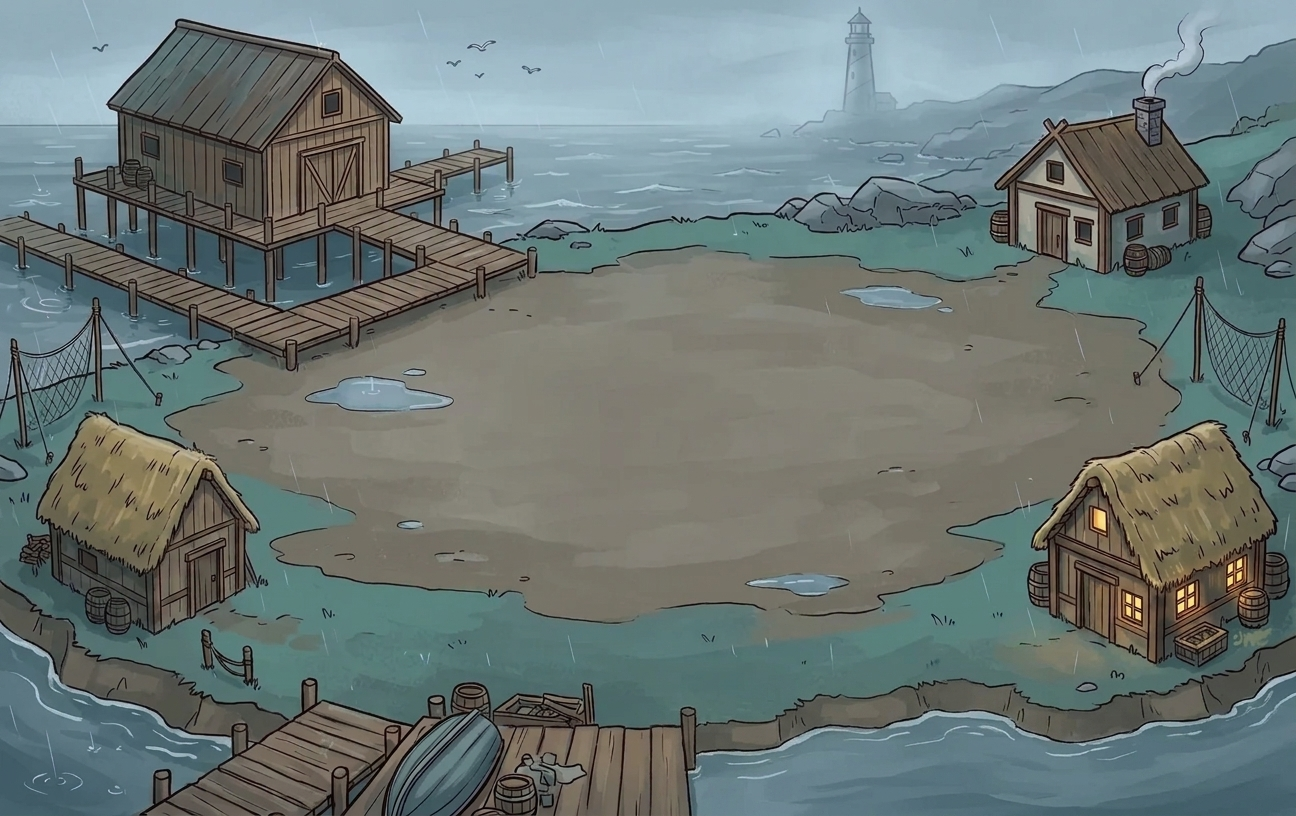
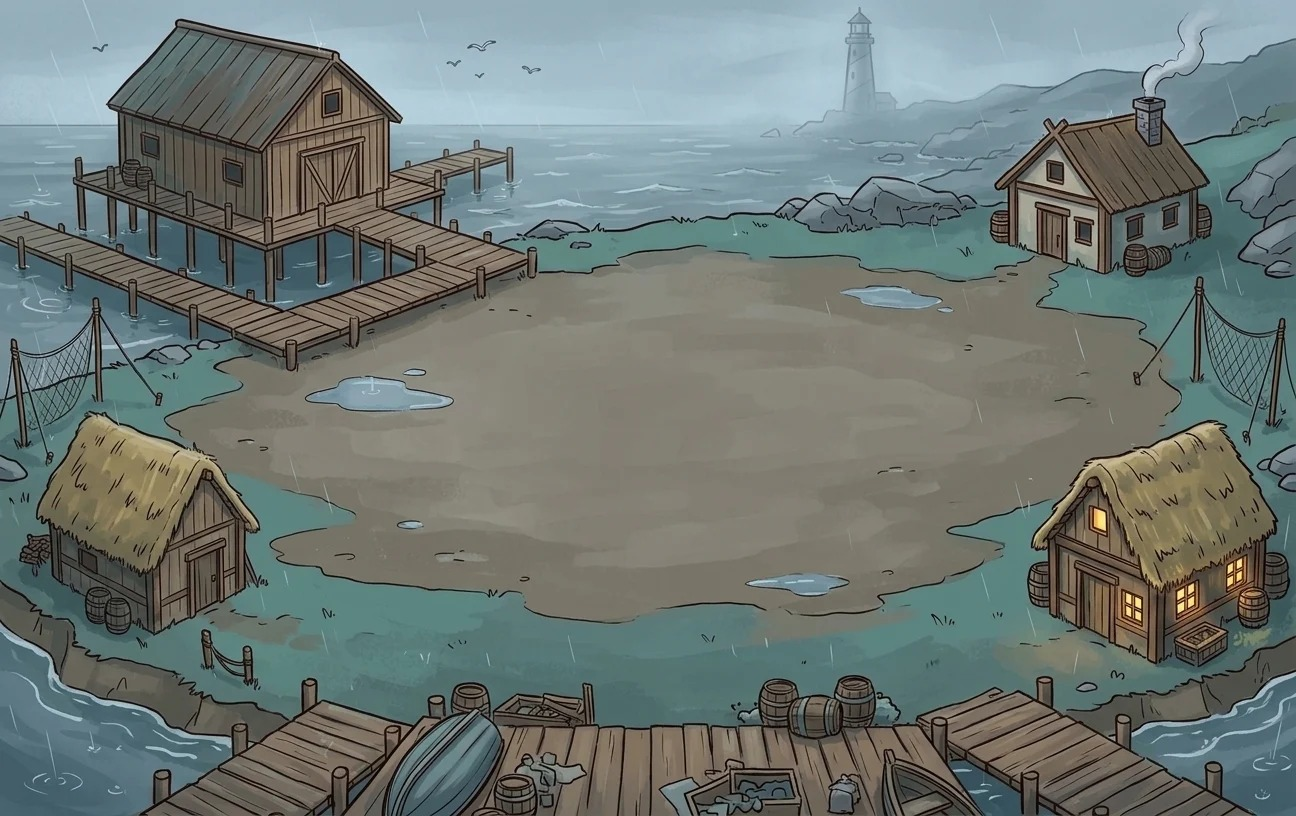
3.38.1: живой фон Рыбацкой деревни — пруд ниже, без забора, окна, дым, рыбаки из домов
Фон из Gemini от пользователя (assets/backgrounds/fishing.jpg).

Claude-Session: https://claude.ai/code/session_0174tYV1TtJbt2bc9kHkJwmK

Changed region(s): [[0.4938, 0.8272, 1.0, 1.0], [0.9568, 0.7047, 0.9877, 0.7353]]

diff --git a/farmgame/field_ui.py b/farmgame/field_ui.py
@@ -27,7 +27,7 @@ class FieldUI:
 
     def hit_tile(self, pos):
         dx = (pos[0] - OX) / (TW / 2)
-        dy = (pos[1] + 18 - OY) / (TH / 2)
+        dy = (pos[1] + 18 - grid_oy()) / (TH / 2)
         fi, fj = (dx + dy) / 2, (dy - dx) / 2
         i, j = math.floor(fi + 0.5), math.floor(fj + 0.5)
         if (i, j) in SLOT:
@@ -337,6 +337,80 @@ class FieldUI:
         total = max(f.rain_left, _rain_time(f.up("rain_len")))
         return total - f.rain_left, f.rain_left
 
+    # ---------- 3.38.1: живой фон (окна, дым) и рыбаки из домов ----------
+    RUSH_WALK = 2.6                   # сколько секунд рыбак идёт от дома до пруда
+
+    def scene(self):
+        """Точки живого фона фермы (THEME["scene"]) — только если лежит та самая картинка фона."""
+        sc = THEME.get("scene")
+        if not sc or sprite(sc["bg"]) is None:
+            return None
+        return sc
+
+    def draw_scene_life(self):
+        sc = self.scene()
+        if sc is None:
+            return
+        s, t = self.screen, self.t_real
+        for n, (x, y, size) in enumerate(sc.get("windows", ())):   # огонь в очаге: свет дрожит у каждого окна по-своему
+            fl = 0.55 + 0.25 * math.sin(t * 3.1 + n * 1.7) + 0.2 * math.sin(t * 7.9 + n * 2.3) * math.sin(t * 1.3 + n)
+            blit_light(s, x, y, size * (2.2 + 0.3 * fl), (255, 190, 90), 70 + 110 * fl)
+            blit_light(s, x, y, size * 0.9, (255, 225, 150), 90 + 120 * fl)
+        if self.view == "field" and not self.modal:
+            last = getattr(self, "smoke_last", t)
+            if t - last > 2.0:                       # вернулись на поле — не выпускаем весь накопленный дым разом
+                last = t - 0.45
+            self.smoke_last = last
+            while t - self.smoke_last > 0.45:
+                self.smoke_last += 0.45
+                for x, y in sc.get("smoke", ()):
+                    self.fx.dust(x, y, n=1, color=(214, 218, 224), size=(6, 10), spread=2, up=24, life=(2.6, 3.6),
+                                 alpha=120, drift=9)
+
+    def rush_walk(self, k, el, left, door, spot):
+        """Где рыбак k на пути дом -> пруд -> дом: (x, y, идёт ли, смотрит вправо) или None (дома)."""
+        delay = 0.2 + 0.22 * DRAW_ORDER.index(k)
+        come = min(1.0, max(0.0, (el - delay) / self.RUSH_WALK))
+        back = min(1.0, max(0.0, (self.RUSH_WALK + 0.2 - left) / self.RUSH_WALK))
+        if come <= 0 or back >= 1:
+            return None
+        if back > 0:
+            u, a, b = anim.ease_in_out(back), spot, door
+        else:
+            u, a, b = anim.ease_out_cubic(come), door, spot
+        x, y = a[0] + (b[0] - a[0]) * u, a[1] + (b[1] - a[1]) * u
+        walking = 0 < u < 1
+        return x, y, walking, b[0] > a[0]
+
+    def rush_spot(self, k):
+        cx, cy = crop_center(k)
+        right = k % 2 == 0
+        return (cx + (64 if right else -64), cy + 14), right
+
+    def rush_door(self, k, sc):
+        spot, _r = self.rush_spot(k)
+        return min(sc["doors"], key=lambda d: (d[0] - spot[0]) ** 2 + (d[1] - spot[1]) ** 2 + 400 * (k % 3))
+
+    def draw_rush_walkers(self):
+        """Рыбаки, которые сейчас идут (на месте их рисует draw_rush_worker): поверх прудов, чтобы не прятались."""
+        sc = self.scene()
+        clock = self.rush_clock()
+        if sc is None or clock is None or not sc.get("doors"):
+            return
+        from .art_fishing import draw_fisher
+        el, left = clock
+        f = self.farm
+        for k in DRAW_ORDER:
+            if f.levels[k] == 0 or f.farmers[k]:
+                continue
+            spot, right = self.rush_spot(k)
+            w = self.rush_walk(k, el, left, self.rush_door(k, sc), spot)
+            if w is None or not w[2]:
+                continue
+            x, y, _walk, to_right = w
+            hop = abs(math.sin((self.t_real + k) * 9)) * 3
+            draw_fisher(self.screen, x, y - hop, 1.2, self.t_real + k * 0.7, flip=not to_right, n=k)
+
     def draw_rush_worker(self, k):
         """Гном из леса на грядке без своего гнома: выскакивает из сугроба, машет тяпкой, в конце исчезает."""
         clock = self.rush_clock()
@@ -353,6 +427,14 @@ class FieldUI:
         right = k % 2 == 0
         x, y = cx + (64 if right else -64), cy + 14
         fisher = self.farm_info().get("helpers") == "fishermen"     # 3.36: на фестивале — рыбаки с удочками
+        sc = self.scene() if fisher else None
+        if sc is not None and sc.get("doors"):                     # 3.38.1: пришёл из дома — без брызг
+            w = self.rush_walk(k, el, left, self.rush_door(k, sc), ((x, y)))
+            if w is None or w[2]:
+                return                                              # дома или в пути (в пути — draw_rush_walkers)
+            from .art_fishing import draw_fisher
+            draw_fisher(self.screen, x, y, 1.25, self.t_real + k * 0.7, flip=right, n=k)
+            return
         if k not in self.rush_popped:                 # выскочил — облачко снега (у рыбака — брызги)
             self.rush_popped.add(k)
             self.fx.dust(x, y - 4, n=6, color=(200, 225, 240) if fisher else (245, 250, 255), size=(5, 9), spread=12,
@@ -370,6 +452,23 @@ class FieldUI:
             self.rush_popped.clear()
             return
         el, left = clock
+        sc = self.scene() if self.farm_info().get("helpers") == "fishermen" else None
+        if sc is not None and sc.get("dance") and sc.get("doors"):   # 3.38.1: плясуны выходят из домов
+            from .art_fishing import draw_fisher
+            for n, spot in enumerate(sc["dance"]):
+                door = min(sc["doors"], key=lambda d: (d[0] - spot[0]) ** 2 + (d[1] - spot[1]) ** 2)
+                come = anim.ease_out_cubic(min(1.0, max(0.0, (el - 0.4 - 0.5 * n) / self.RUSH_WALK)))
+                back = min(1.0, max(0.0, (self.RUSH_WALK + 0.2 - left) / self.RUSH_WALK))
+                if come <= 0 or back >= 1:
+                    continue
+                a, b, u = (spot, door, back) if back > 0 else (door, spot, come)
+                x, y = a[0] + (b[0] - a[0]) * u, a[1] + (b[1] - a[1]) * u
+                t = self.t_real + n * 1.3
+                if 0 < u < 1:
+                    draw_fisher(self.screen, x, y - abs(math.sin(t * 9)) * 3, 1.5, t, flip=b[0] < a[0], n=n)
+                else:
+                    draw_fisher(self.screen, x, y, 1.6, t, flip=n == 1, cheer=True, n=n)
+            return
         for n, (sx, sy) in enumerate(SHAMAN_SPOTS):
             come = anim.ease_out_cubic(min(1.0, max(0.0, (el - 0.3 * n) / self.RUSH_IN)))
             go = 1.0 - anim.ease_out_cubic(min(1.0, max(0.0, left / self.RUSH_OUT)))      # 0 → 1 в последние секунды

diff --git a/farmgame/config.py b/farmgame/config.py
@@ -6,7 +6,7 @@ import sys
 
 W, H = 1000, 640
 FPS = 60
-GAME_VERSION = "3.38"   # версия игры: видна в «Настройках» и в заголовке окна
+GAME_VERSION = "3.38.1"   # версия игры: видна в «Настройках» и в заголовке окна
 SAVE_VERSION = 2
 DEV = "--dev" in sys.argv     # режим разработчика: python farm_idle.py --dev
 BASE_DIR = os.path.dirname(os.path.dirname(os.path.abspath(__file__)))   # папка, где лежит farm_idle.py
@@ -540,7 +540,15 @@ THEME_FISHING = dict(ground=(122, 148, 140), ground2=(134, 160, 152), path=(150,
                      path2=(160, 138, 110), tree=(66, 98, 94), tree_light=(92, 124, 120), bush=(78, 108, 104),
                      bush_light=(104, 134, 130), tuft=(92, 120, 112), stone=(150, 158, 166),
                      soil=(86, 128, 156), soil_dark=(64, 100, 130), soil_side=(110, 86, 64), snow=False,
-                     pond=True, critter="crab", pest="gull")
+                     pond=True, critter="crab", pest="gull", fence=False, field_dy=36,
+                     scene=dict(   # 3.38.1: живой фон backgrounds/fishing (точки — под картинку 26.11, логические 1000x640)
+                         bg="backgrounds/fishing",
+                         windows=[(847, 408, 22), (873, 475, 26), (915, 468, 26), (954, 448, 26),   # хижина справа
+                                  (814, 134, 18), (836, 180, 20), (876, 178, 20), (904, 169, 18),   # дом наверху
+                                  (68, 440, 22)],                                                   # хижина слева
+                         smoke=[(886, 76)],                       # труба дома наверху
+                         doors=[(846, 502), (811, 206), (158, 488)],   # откуда выходят рыбаки на фестиваль
+                         dance=[(770, 470), (230, 470)]))         # где пляшут рыбаки с уловом
 CURRENCIES = {
     "leaf": dict(icon="leaf", title="Листья", gen="листьев", one="лист", tree="ДЕРЕВО ЛИСТЬЕВ"),
     "seal": dict(icon="seal", title="Печати", gen="печатей", one="печать", tree="ПРИВИЛЕГИИ КОРОЛЯ"),

diff --git a/farmgame/art_field.py b/farmgame/art_field.py
@@ -101,7 +101,9 @@ def build_field_background():
     bg.blit(barn, (60, 18))
     for x, y, r in ((900, 250, 26), (210, 430, 30), (950, 480, 24), (330, 520, 22), (640, 525, 22)):
         draw_bush(bg, x, y, r)
-    draw_fence(bg, (OX, OY - TH / 2), (OX + TW + TW / 2, OY + TH), (8, -14))   # задний забор
+    if THEME.get("fence", True):
+        oy = grid_oy()
+        draw_fence(bg, (OX, oy - TH / 2), (OX + TW + TW / 2, oy + TH), (8, -14))   # задний забор
     return bg
 
 
@@ -111,9 +113,10 @@ _fence_layers = {}
 
 def front_fence_segments():
     """Два передних края поля, вдоль которых стоит забор: [(начало, конец)], x начала < x конца."""
-    left = (OX - TW - TW / 2, OY + TH)
-    bottom = (OX, OY + 2 * TH + TH / 2)
-    right = (OX + TW + TW / 2, OY + TH)
+    oy = grid_oy()
+    left = (OX - TW - TW / 2, oy + TH)
+    bottom = (OX, oy + 2 * TH + TH / 2)
+    right = (OX + TW + TW / 2, oy + TH)
     return [((left[0] - 6, left[1] + 16), (bottom[0] - 30 - 6, bottom[1] - 15 + 16)),
             ((bottom[0] + 30 + 6, bottom[1] - 15 + 16), (right[0] + 6, right[1] + 16))]
 
@@ -230,6 +233,8 @@ def _fence_front_as_strip(name):
 
 
 def draw_front_fence_layer(s):
+    if not THEME.get("fence", True):          # 3.38.1: в Рыбацкой деревне забора нет — у прудов свои сетки
+        return
     strips = []
     for name in farm_names("props", "fence_front"):
         wide = _fence_front_as_strip(name)

diff --git a/farmgame/app.py b/farmgame/app.py
@@ -652,6 +652,7 @@ class App(TavernUI, BoardUI, SongsUI, TavernLifeUI, FiresideUI, MoveUI, TavernHu
             working = f.m_workers[0] > 0 and f.hopper > 0
             draw_mill_blades(s, MILL_HUB[0], MILL_HUB[1], self.t * (1.6 if working else 0.35))
         self.zone((120, 30, 250, 195), self.toggle_barn)   # клик по амбару / мельнице
+        self.draw_scene_life()                # 3.38.1: окна мерцают, из трубы дым (если у фермы живой фон)
         self.draw_sun()
         self.draw_cloud()
         for k in DRAW_ORDER:
@@ -660,6 +661,7 @@ class App(TavernUI, BoardUI, SongsUI, TavernLifeUI, FiresideUI, MoveUI, TavernHu
             self.draw_plants(k)
             self.draw_ice(k)
             self.draw_rush_worker(k)          # 3.26: гном из «пришествия» на грядке
+        self.draw_rush_walkers()              # 3.38.1: рыбаки идут из домов к прудам и обратно
         self.draw_front_fence()
         self.draw_shamans()                   # 3.26: шаманы пляшут на лужайке справа
         self.draw_truck_layer()

diff --git a/tests/test_fishing.py b/tests/test_fishing.py
@@ -58,3 +58,23 @@ class FishingVillage(unittest.TestCase):
 
 if __name__ == "__main__":
     unittest.main()
+
+
+class FishingScene(unittest.TestCase):
+    """3.38.1: живой фон деревни — поле ниже, без забора, точки окон/дыма/дверей в пределах экрана."""
+
+    def test_scene_points_on_screen(self):
+        th = cfg.THEME_FISHING
+        self.assertFalse(th["fence"])
+        self.assertGreater(th["field_dy"], 0)
+        sc = th["scene"]
+        for key in ("windows", "smoke", "doors", "dance"):
+            for pt in sc[key]:
+                self.assertTrue(0 <= pt[0] <= cfg.W and 0 <= pt[1] <= cfg.H, (key, pt))
+        self.assertEqual(len(sc["doors"]), 3)               # рыбаки выходят из трёх домов
+
+    def test_other_farms_keep_field_and_fence(self):
+        for fm in cfg.FARMS:
+            if fm["id"] != "fishing":
+                self.assertEqual(fm["theme"].get("field_dy", 0), 0)
+                self.assertTrue(fm["theme"].get("fence", True))

diff --git a/devtools/scenarios/fishing_scene.py b/devtools/scenarios/fishing_scene.py
@@ -1,0 +1,13 @@
+# 3.38.1: живой фон Рыбацкой деревни — поле ниже, без забора, окна, дым, рыбаки из домов на фестивале
+f = A.farm
+f.farm_index = 3
+f.reset_run()
+A.set_theme()
+f.levels = [60, 40, 30, 25, 25, 25, 12, 10, 0]
+f.farmers = [True, False, False, False, False, False, False, False, False]
+f.money = 1e12
+A.view = "field"; A.toasts.clear(); frames(60); A.toasts.clear(); frames(2); snap("scene_field")
+f.rain_cd = 0; A.modal = None; A.click_rain(); A.toasts.clear()
+frames(45); A.toasts.clear(); frames(1); snap("scene_walk")
+frames(150); A.toasts.clear(); frames(1); snap("scene_party")
+f.rain_left = 1.5; frames(30); A.toasts.clear(); frames(1); snap("scene_home")

diff --git a/farmgame/art_base.py b/farmgame/art_base.py
@@ -52,8 +52,15 @@ def P(v):
     return int(round(v))
 
 
+FIELD_DY = [0.0]           # 3.38.1: сдвиг всего поля вниз (своё у фермы: THEME["field_dy"]; ставит apply_farm)
+
+
+def grid_oy():
+    return OY + FIELD_DY[0]
+
+
 def tile_center(i, j):
-    return OX + (i - j) * TW / 2, OY + (i + j) * TH / 2
+    return OX + (i - j) * TW / 2, grid_oy() + (i + j) * TH / 2
 
 
 def crop_center(k):

diff --git a/farmgame/art_world.py b/farmgame/art_world.py
@@ -749,6 +749,7 @@ def apply_farm(idx):
     FARM_ID[0] = fm["id"]
     THEME.clear()
     THEME.update(fm["theme"])
+    FIELD_DY[0] = float(fm["theme"].get("field_dy", 0))
     CUR.clear()
     CUR.update(CURRENCIES[fm["cur"]])
     TREE[:] = TREES[fm["tree"]]

diff --git a/docs/changes/changes_3.38.1.md b/docs/changes/changes_3.38.1.md
@@ -1,0 +1,19 @@
+# Версия 3.38.1 — живой фон Рыбацкой деревни
+
+Пользователь 26.11 прислал фон деревни из Gemini (`assets/backgrounds/fishing.jpg`, положен в репозиторий:
+точки окон, трубы и дверей привязаны к этой картинке).
+
+- **Пруд ниже** на 36 px (`THEME["field_dy"]`, общий сдвиг через `FIELD_DY` / `grid_oy()` — клетки, клики,
+  забор): верхний угол больше не задевает море. У других ферм сдвиг 0.
+- **Без забора** в деревне (`THEME["fence"]=False`): у прудов свои сетки с поплавками.
+- **Окна мерцают** тёплым светом очага — у каждого окна свой ритм (хижина справа, дом наверху, хижина слева).
+- **Дым** из трубы дома наверху — клубы поднимаются и сносятся ветром вправо.
+- **Рыбацкий фестиваль:** рыбаки выходят из трёх домов (каждый — из ближнего к своему пруду), идут к прудам и встают
+  с удочками; двое с уловом идут плясать — между прудом и хижинами. В конце фестиваля все расходятся по домам.
+  Рыбаки в пути рисуются поверх прудов.
+- Всё это включается, только если лежит именно эта картинка фона (`THEME["scene"]`); без неё — как в 3.36
+  (рыбаки выскакивают с брызгами).
+- Сценарий `fishing_scene`, тесты точек сцены в `tests/test_fishing.py`.
+
+Открытый вопрос: покупатель (повозка) въезжает справа по низу экрана — на этом фоне там причал с бочками и лодкой.
+Ждём решения: дорога внизу справа (повозка) или вода у причала (лодка вместо повозки).
